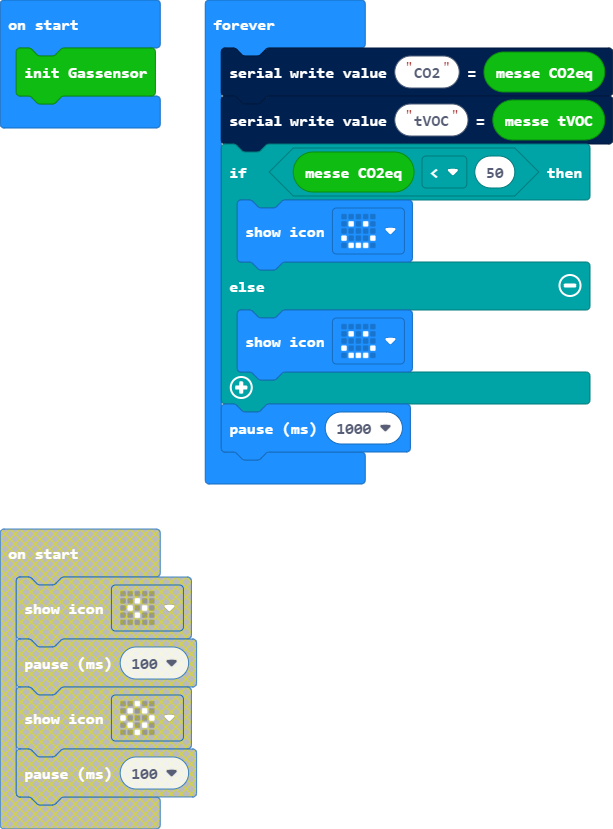
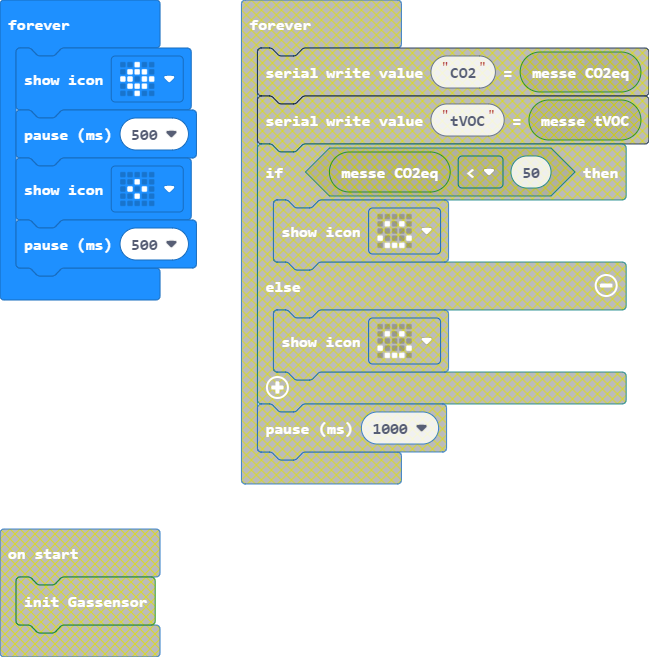
Change to template main

diff --git a/main.ts b/main.ts
@@ -1,11 +1,6 @@
-smartfeldSensoren.initGas()
 basic.forever(function () {
-    serial.writeValue("CO2", smartfeldSensoren.measReadCO2eq())
-    serial.writeValue("tVOC", smartfeldSensoren.measReadtVOC())
-    if (smartfeldSensoren.measReadCO2eq() < 50) {
-        basic.showIcon(IconNames.Happy)
-    } else {
-        basic.showIcon(IconNames.Happy)
-    }
-    basic.pause(1000)
+    basic.showIcon(IconNames.Target)
+    basic.pause(500)
+    basic.showIcon(IconNames.SmallDiamond)
+    basic.pause(500)
 })
